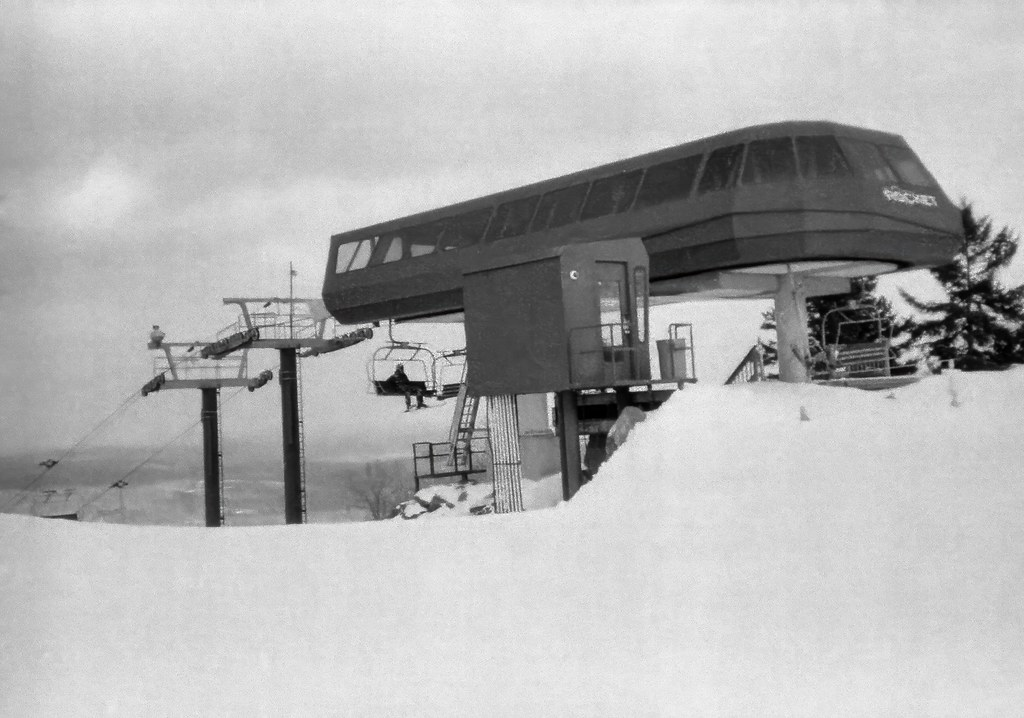
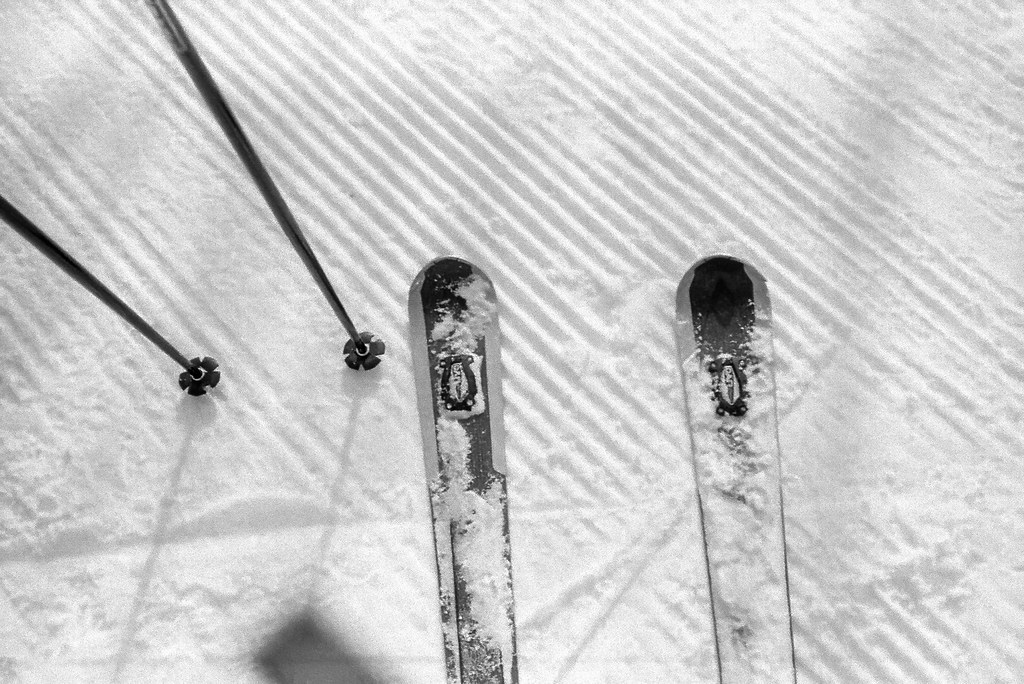
WIP: resort photos
Claude-Session: https://claude.ai/code/session_01A8D3b9WMws4NsxzhPfrakF

diff --git a/src/data/ski/resorts/california-south.ts b/src/data/ski/resorts/california-south.ts
@@ -55,23 +55,23 @@ const resorts: Resort[] = [
       { name: 'Juniper Springs Resort', kind: 'ski-in/ski-out', what: 'Family-friendly condos with kitchens and a heated pool at Eagle Lodge, with ski-in, ski-out access.', url: `${MM}/plan-your-trip/mammoth-hotels/juniper-springs-resort`, distance: 'Slopeside at Eagle Lodge' },
       { name: 'Mammoth Mountain Inn', kind: 'slopeside', what: 'Hotel across from Main Lodge and the Panorama Gondola, with a heated pool and the mountain’s activities next door.', url: `${MM}/plan-your-trip/mammoth-hotels/mammoth-mountain-inn`, distance: 'Slopeside at Main Lodge' },
       { name: 'The Village Lodge', kind: 'base village', what: 'Condo-style suites in The Village, steps from shops and restaurants and the gondola up to Canyon Lodge.', url: villageLodge, distance: 'Village Gondola' },
-      { name: 'The Westin Monache Resort', kind: 'hotel', what: 'Full-service hotel in The Village with suites, a pool and easy access to the gondola.', url: 'https://www.marriott.com/en-us/hotels/mmhwi-the-westin-monache-resort-mammoth/overview/', distance: 'In The Village' },
+      { name: 'The Westin Monache Resort', kind: 'hotel', what: 'Full-service hotel in The Village, a short walk from the gondola.', url: 'https://www.marriott.com/en-us/hotels/mmhwi-the-westin-monache-resort-mammoth/overview/', distance: 'In The Village' },
       { name: 'Tamarack Lodge', kind: 'lodge', what: 'Historic lodge and cabins in the Lakes Basin, with the cross-country trails right outside.', url: `${MM}/plan-your-trip/mammoth-hotels/tamarack-lodge`, distance: '10 min drive' },
       { name: 'Davison St. Guest House', kind: 'hostel', what: 'A-frame ski chalet that runs as a hostel, with dorm beds, private rooms and a shared kitchen. Hostel bookings open two weeks out.', url: 'https://www.mammoth-guest.com/', distance: 'Walk to Canyon Lodge' },
     ],
     thingsToDo: [
       { name: 'Mammoth Snowmobile Adventures', kind: 'snowmobiling', what: 'Guided snowmobile tours into the Inyo National Forest, run daily by the resort.', url: `${MM}/things-to-do/activities/snowmobile-adventures`, distance: 'Main Lodge' },
       { name: 'Woolly’s Adventure Summit', kind: 'tubing', what: 'Tube park, mountain coaster, zip line and snow play in one spot. An Adventure Pass covers the rides.', url: `${MM}/things-to-do/woollys-adventure-summit`, distance: 'Between The Village and Main Lodge' },
-      { name: 'Panorama Gondola scenic ride', kind: 'scenic-lift', what: 'Ride to the 11,053-ft summit for views across the Sierra crest and the Owens Valley.', url: `${MM}/things-to-do/activities/scenic-gondola`, distance: 'Main Lodge' },
+      { name: 'Panorama Gondola scenic ride', kind: 'scenic-lift', what: 'Non-skiers can ride to the 11,053-ft summit for big views across the Sierra.', url: `${MM}/things-to-do/activities/scenic-gondola`, distance: 'Main Lodge' },
       { name: 'Tamarack Cross-Country Ski Center', kind: 'nordic', what: 'More than 19 miles of groomed cross-country and snowshoe trails in the Lakes Basin, with rentals and lessons.', url: `${MM}/things-to-do/activities/tamarack-cross-country-ski-center`, distance: '10 min drive' },
-      { name: 'Dog sledding with Mammoth Dog Teams', kind: 'dog-sledding', what: 'Sled-dog rides on the packed trails around town, a nod to the dog teams that hauled mail here in the 1920s.', url: 'https://www.mammothtrails.org/activity/37/dog-sledding/', distance: 'Mammoth Lakes' },
+      { name: 'Dog sledding with Mammoth Dog Teams', kind: 'dog-sledding', what: 'Sled-dog rides on the packed trails around town, a nod to the dog teams that carried passengers and freight here in the 1920s.', url: 'https://www.mammothtrails.org/activity/37/dog-sledding/', distance: 'Mammoth Lakes' },
       { name: 'LA Kings Ice at Mammoth Lakes', kind: 'ice-skating', what: 'Indoor Olympic-size rink with daily public skate sessions and rentals, October to April.', url: 'https://www.lakingsicemammothlakes.com/', distance: '10 min drive' },
-      { name: 'Mammoth Brewing Company', kind: 'drink', what: 'The town’s brewery and taproom, with food from The EATery.', url: 'https://mammothbrewingco.com/', distance: '10 min drive' },
+      { name: 'Mammoth Brewing Company', kind: 'drink', what: 'The town’s brewery, with a tasting room, beer garden and food from The EATery.', url: 'https://mammothbrewingco.com/', distance: '10 min drive' },
     ],
     apres: [
       { name: 'Yodler Restaurant & Bar', what: 'Chalet-style slopeside bar across from Main Lodge, a Mammoth institution.' },
-      { name: 'Lincoln Bar', what: 'Ski-in indoor and outdoor bar at Canyon Lodge, home of the weekend après parties.' },
-      { name: 'Clocktower Cellar', what: 'Cozy basement pub near The Village with a long beer list.', url: 'https://www.clocktowercellar.com/' },
+      { name: 'Lincoln Bar', what: 'Ski-in indoor and outdoor bar at Canyon Lodge, where the weekend après parties happen.' },
+      { name: 'Clocktower Cellar', what: 'Locals’ pub under the Alpenhof Lodge clock tower, across from the Village Gondola, with a big draft list.', url: 'https://www.clocktowercellar.com/' },
     ],
     events: [
       { name: 'Opening Day', kind: 'opening', date: '2026-11-13', when: 'Nov 13, lifts at 8:30 am', what: 'First chairs of the 2026–27 season, conditions permitting.', url: `${MM}/things-to-do/events/opening-day`, confirmed: true },
@@ -132,7 +132,7 @@ const resorts: Resort[] = [
     apres: [
       { name: 'Antler Bar', what: 'The bar at the June Meadows Chalet, mid-mountain.' },
       { name: 'Tiger Bar', what: 'Saloon from 1932 with one of the oldest liquor licenses in California, serving bar food with Mexican options.' },
-      { name: 'June Lake Brewing', what: 'Small-town brewery taproom; bring food in from the spots nearby.', url: 'https://www.junelakebrewing.com/' },
+      { name: 'June Lake Brewing', what: 'Small-town brewery taproom with food from La Parrilla.', url: 'https://www.junelakebrewing.com/' },
     ],
     events: [
       { name: 'Opening Day', kind: 'opening', date: '2026-12-19', when: 'Dec 19, J1 opens 7:30 am', what: 'First-chair banner breakthrough at J2 with Bucky the mascot at 8:30 am, then a winter toast at the Chalet.', url: `${JM}/things-to-do/opening-day`, confirmed: true },
@@ -177,20 +177,20 @@ const resorts: Resort[] = [
     lodging: [
       { name: 'Snow Summit Townhouses', kind: 'condo', what: 'Individually owned townhouse rentals for up to 10 at the base of Snow Summit.', url: 'https://www.snowsummittownhouses.com/', distance: 'Slopeside at Snow Summit' },
       { name: 'Chateau Big Bear', kind: 'hotel', what: 'Renovated boutique hotel half a mile from Snow Summit, with Tiffany’s Bistro on site.', url: 'https://chateaubigbear.com/', distance: '5 min drive' },
-      { name: 'The Lodge at Big Bear Lake (Northwoods Resort)', kind: 'lodge', what: 'Large rustic-style hotel on Village Drive with a restaurant and suites for families.', url: northwoods, distance: '5 min drive' },
+      { name: 'The Lodge at Big Bear Lake (Northwoods Resort)', kind: 'lodge', what: 'Rustic-style hotel on Village Drive with a restaurant and family suites.', url: northwoods, distance: '5 min drive' },
       { name: 'Big Bear Hostel', kind: 'hostel', what: 'Dorm beds and budget private rooms near the lake and village. Reservations required.', url: bigBearHostel, distance: '5 min drive' },
     ],
     thingsToDo: [
-      { name: 'Alpine Slide at Magic Mountain', kind: 'mountain-coaster', what: 'Mineshaft Coaster and a snow play hill on Big Bear Boulevard.', url: alpineSlide, distance: '5 min drive' },
+      { name: 'Alpine Slide at Magic Mountain', kind: 'mountain-coaster', what: 'Mineshaft Coaster and a snow play hill in town.', url: alpineSlide, distance: '5 min drive' },
       { name: 'Big Bear Snow Play', kind: 'tubing', what: 'Snow tubing, including evening glow tubing, plus go-karts and a ropes course.', url: 'https://bigbearsnowplay.com/', distance: '10 min drive' },
-      { name: 'Big Bear Zoo', kind: 'other', what: 'Rescue zoo for injured and orphaned mountain wildlife, including bears.', url: 'https://bigbearzoo.org/', distance: '5 min drive' },
-      { name: 'Big Bear Lake Brewing Company', kind: 'drink', what: 'Long-running brewpub on Big Bear Boulevard for a post-ski pint and pub food.', distance: '5 min drive' },
+      { name: 'Big Bear Alpine Zoo', kind: 'other', what: 'Small zoo that also takes in injured and orphaned local wildlife.', url: 'https://bigbearzoo.org/', distance: '5 min drive' },
+      { name: 'Big Bear Lake Brewing Company', kind: 'drink', what: 'Local brewery in Big Bear Lake for a post-ski pint.', distance: '5 min drive' },
     ],
     apres: [
       { name: 'Laybacks Bar', what: 'Bear Mountain’s sun-deck bar and the center of its après scene.' },
       { name: 'Hog on the Rocks', what: 'At 8,200 ft on top of Snow Summit, the highest bar in Southern California.' },
-      { name: 'Tommi’s', what: 'Full-service bar at the Snow Summit base, named for the resort’s founder.' },
-      { name: 'Murray’s Saloon & Eatery', what: 'Village dive bar and breakfast spot open until 2 am.', url: 'https://murrayssaloonandeatery.com/' },
+      { name: 'Tommi’s', what: 'Full-service Snow Summit bar named for founder Tommi Tyndall.' },
+      { name: 'Murray’s Saloon & Eatery', what: 'Saloon near the village, open from breakfast until 2 am.', url: 'https://murrayssaloonandeatery.com/' },
     ],
     events: [
       { name: 'Holiday period', kind: 'christmas', date: '2026-12-19', end: '2027-01-03', when: 'Dec 19 – Jan 3', what: 'Extended hours, 8:30 am to 8:30 pm, with daily Night Sessions at Snow Summit and Snow Valley.', url: bbHolidays, confirmed: true },
@@ -216,7 +216,7 @@ const resorts: Resort[] = [
     size: 'local',
     tagline: 'Closest snow to LA, lit up most nights',
     summary:
-      'Southern California’s closest ski area, about 90 minutes from downtown Los Angeles with no winding mountain road. The West Resort has the main terrain park and night skiing until 10 pm in peak season; the East Resort, a mile away, has the longer runs, the Grand View Lodge at 8,200 ft and Yeti’s Snow Play for tubing. Snowmaking covers about 80% of the hill.',
+      'Southern California’s closest ski area, about 90 minutes from downtown Los Angeles with no winding mountain road. The West Resort has the main terrain park and night skiing until 10 pm in peak season; the East Resort, a mile away, has the longer runs, the Grand View Lodge up top and Yeti’s Snow Play for tubing. Snowmaking covers about 80% of the hill.',
     url: 'https://www.mthigh.com/',
     snowReportUrl: `${MH}/trails-and-conditions/conditions/snow-and-weather-report`,
     trailMapUrl: `${MH}/mountain/mountain-info/interactive-trailmap.html`,
@@ -290,7 +290,7 @@ const resorts: Resort[] = [
     activities: ['night-skiing', 'terrain-park', 'tubing', 'scenic-lift', 'kids'],
     lodging: [
       { name: 'Lake Arrowhead Resort & Spa', kind: 'hotel', what: 'Lakeside resort hotel with a private beach, lake-view suites and a spa.', url: 'https://www.lakearrowheadresort.com/', distance: '25 min drive' },
-      { name: 'The Lodge at Big Bear Lake (Northwoods Resort)', kind: 'lodge', what: 'Large rustic-style hotel in Big Bear Lake, handy if you also want to ski Snow Summit and Bear Mountain.', url: northwoods, distance: '30 min drive' },
+      { name: 'The Lodge at Big Bear Lake (Northwoods Resort)', kind: 'lodge', what: 'Rustic-style hotel in Big Bear Lake, handy if you also want to ski Snow Summit and Bear Mountain.', url: northwoods, distance: '30 min drive' },
       { name: 'Big Bear Hostel', kind: 'hostel', what: 'Dorm beds and budget private rooms near Big Bear’s lake and village.', url: bigBearHostel, distance: '30 min drive' },
     ],
     thingsToDo: [
@@ -346,12 +346,12 @@ const resorts: Resort[] = [
     activities: ['terrain-park', 'nordic', 'snowshoeing', 'kids'],
     lodging: [
       { name: 'Bear Valley Lodge', kind: 'lodge', what: 'Rustic, historic lodge in Bear Valley village with Sky High Pizza, a general store and pet-friendly rooms. $20 nightly resort fee.', url: `${BV}/lodging`, distance: '5 min drive' },
-      { name: 'Arnold Timberline Lodge', kind: 'lodge', what: 'Simple lodge on Highway 4 in Arnold, a resort lodging partner.', url: 'https://www.arnoldtimberlinelodge.com/', distance: '35 min drive' },
+      { name: 'Arnold Timberline Lodge', kind: 'lodge', what: 'Lodge on Highway 4 in Arnold; a Bear Valley lodging partner.', url: 'https://www.arnoldtimberlinelodge.com/', distance: '35 min drive' },
       { name: 'Black Bear Inn', kind: 'b&b', what: 'Five-room inn on 1.5 acres of gardens and sequoias in Arnold.', url: 'https://www.arnoldblackbearinn.com/', distance: '40 min drive' },
       { name: 'Murphys Historic Hotel', kind: 'hotel', what: 'Gold Rush hotel from 1856 on Main Street in Murphys, near the tasting rooms.', url: 'https://murphyshotel.com/', distance: '55 min drive' },
     ],
     thingsToDo: [
-      { name: 'Bear Valley Adventure Company', kind: 'nordic', what: 'About 65 km of groomed skate and classic trails with warming huts, rentals and snowshoe routes.', url: 'https://www.bvadventures.com/', distance: 'Bear Valley village' },
+      { name: 'Bear Valley Adventure Company', kind: 'nordic', what: 'About 65 km of groomed skate and classic trails with a trailside café and three warming huts.', url: 'https://www.bvadventures.com/', distance: 'Bear Valley village' },
       { name: 'Calaveras Big Trees State Park', kind: 'snowshoeing', what: 'Giant sequoia groves near Arnold; good for a snowy forest walk on a rest day.', url: 'https://www.parks.ca.gov/?page_id=551', distance: '40 min drive' },
       { name: 'Sky High Pizza', kind: 'eat', what: 'Pizza, salads and a full bar inside Bear Valley Lodge.', url: `${BV}/food-beverage`, distance: 'Bear Valley village' },
       { name: 'Murphys Main Street', kind: 'drink', what: 'Gold Rush town lined with wine tasting rooms, a good stop on the drive down Highway 4.', distance: '55 min drive' },
@@ -401,13 +401,13 @@ const resorts: Resort[] = [
     activities: ['terrain-park', 'tubing', 'ice-skating', 'kids'],
     lodging: [
       { name: 'Pinecrest Chalet', kind: 'cabin', what: 'Chalets with full kitchens that sleep up to 14, plus cozy cottages and a guest den. Two-night weekend minimum.', url: 'https://pinecrestchalet.com/', distance: '5 min drive' },
-      { name: 'Rivers Resort Rentals', kind: 'cabin', what: 'Cabin rentals in Strawberry along the Stanislaus River.', url: 'https://riversresortrentals.com/', distance: '10 min drive' },
-      { name: 'The Long Barn Lodge', kind: 'lodge', what: 'Retro 20-room motel and 10 cabins in the forest, with an outdoor ice rink in winter.', url: 'https://thelongbarnlodge.com/', distance: '20 min drive' },
+      { name: 'Rivers Resort Rentals', kind: 'cabin', what: 'Cabin rentals in Strawberry, a few miles down Highway 108.', url: 'https://riversresortrentals.com/', distance: '10 min drive' },
+      { name: 'The Long Barn Lodge', kind: 'lodge', what: 'Retro 20-room motel and 10 cabins in the forest, with an ice rink in winter.', url: 'https://thelongbarnlodge.com/', distance: '20 min drive' },
       { name: 'McCaffrey House', kind: 'b&b', what: 'Bed and breakfast in the pines at Twain Harte.', url: 'https://mccaffreyhouse.com/', distance: '30 min drive' },
       { name: 'Hotel Lumberjack', kind: 'hotel', what: 'Remade Americana motel in historic downtown Sonora, steps from shops and restaurants.', url: 'https://www.hotellumberjack.com/', distance: '45 min drive' },
     ],
     thingsToDo: [
-      { name: 'Long Barn Lodge Ice Rink', kind: 'ice-skating', what: 'Outdoor rink in the forest; it closes for the season on March 1.', url: 'https://thelongbarnlodge.com/', distance: '20 min drive' },
+      { name: 'Long Barn Lodge Ice Rink', kind: 'ice-skating', what: 'Winter ice rink at the Long Barn Lodge; last season it closed March 1.', url: 'https://thelongbarnlodge.com/', distance: '20 min drive' },
       { name: 'Pinecrest Lake', kind: 'other', what: 'Snowy shoreline walks around the lake just below the resort.', distance: '5 min drive' },
       { name: 'Columbia State Historic Park', kind: 'museum', what: 'Preserved Gold Rush town with shops, stagecoach and old storefronts.', url: 'https://www.parks.ca.gov/?page_id=552', distance: '50 min drive' },
       { name: 'Historic downtown Sonora', kind: 'shop', what: 'Gold Country main street with shops, restaurants and tasting rooms.', url: 'https://www.visittuolumne.com/things-to-do', distance: '45 min drive' },
@@ -468,7 +468,7 @@ const resorts: Resort[] = [
     apres: [
       { name: 'Buckhorn Bar & Grill', what: 'Mid-mountain bar at the bottom of Chair 2 with beer on tap and a big screen.' },
       { name: 'JW’s Original Bar', what: 'Cocktails and appetizers at the Inn at China Peak.' },
-      { name: 'Sully’s Pub', what: 'Pub upstairs in the base Daylodge with the game on.' },
+      { name: 'Sully’s Pub', what: 'Pub at the base Daylodge with the game on the big screen.' },
     ],
     events: [],
     getting: { airport: 'Fresno Yosemite International', code: 'FAT', driveMin: 90, from: [{ city: 'Los Angeles', hours: 4.5 }, { city: 'San Francisco', hours: 4.5 }] },
@@ -507,13 +507,13 @@ const resorts: Resort[] = [
     activities: ['night-skiing', 'terrain-park', 'tubing', 'nordic', 'snowshoeing', 'kids'],
     lodging: [
       { name: 'McCloud Mercantile Hotel', kind: 'hotel', what: 'Boutique hotel in a landmark building on the National Register of Historic Places, in the old mill town of McCloud.', url: 'https://www.mccloudmercantile.com/', distance: '20 min drive' },
-      { name: 'Inn at Mount Shasta', kind: 'inn', what: 'Well-reviewed small inn in the center of Mount Shasta city; ask about Ski Park guest rates.', url: 'https://www.innatmountshasta.com/', distance: '20 min drive' },
+      { name: 'Inn at Mount Shasta', kind: 'inn', what: 'Inn in the heart of Mount Shasta city; ask about special rates for Ski Park guests.', url: 'https://www.innatmountshasta.com/', distance: '20 min drive' },
       { name: 'Mount Shasta Resort', kind: 'condo', what: 'Fully equipped chalets in the forest at the edge of Lake Siskiyou; the Ski Park’s preferred lodging partner.', url: 'https://www.mountshastaresort.com/', distance: '25 min drive' },
-      { name: 'Best Western Plus Tree House', kind: 'hotel', what: 'Dependable hotel at the Mount Shasta exit off I-5.', url: 'https://www.bestwestern.com/en_US/book/hotels-in-mount-shasta/best-western-plus-tree-house/propertyCode.05243.html', distance: '20 min drive' },
+      { name: 'Best Western Plus Tree House', kind: 'hotel', what: 'Chain hotel at the gateway to Mount Shasta city.', url: 'https://www.bestwestern.com/en_US/book/hotels-in-mount-shasta/best-western-plus-tree-house/propertyCode.05243.html', distance: '20 min drive' },
     ],
     thingsToDo: [
       { name: 'Mt. Shasta Nordic', kind: 'nordic', what: 'Community-run center with 23.5 km of groomed skate and classic trails, a 2.5 km snowshoe loop, rentals and a new lodge.', url: 'https://www.mtshastanordic.org/' },
-      { name: 'Backcountry cabins', kind: 'other', what: 'Overnight in two rustic cabins in the Ski Park’s 250-acre backcountry, reached by lift and a tour. Guided orientation available.', url: `${MS}/backcountry`, distance: 'From the Douglas lift' },
+      { name: 'Backcountry cabins', kind: 'other', what: 'Overnight in two rustic cabins in the Ski Park’s 250-acre backcountry, reached via the Douglas lift and a ski tour. Guided orientation available.', url: `${MS}/backcountry`, distance: 'From the Douglas lift' },
       { name: 'Tubing hill', kind: 'tubing', what: 'Side-by-side tubing lanes on weekends, two-hour sessions with tube included.', url: `${MS}/winter/tubing`, distance: 'At the base' },
       { name: 'Dunsmuir Brewery Works', kind: 'drink', what: 'Small brewpub with house ales and good food in the railroad town of Dunsmuir.', url: 'https://www.dunsmuirbreweryworks.com/', distance: '35 min drive' },
     ],
